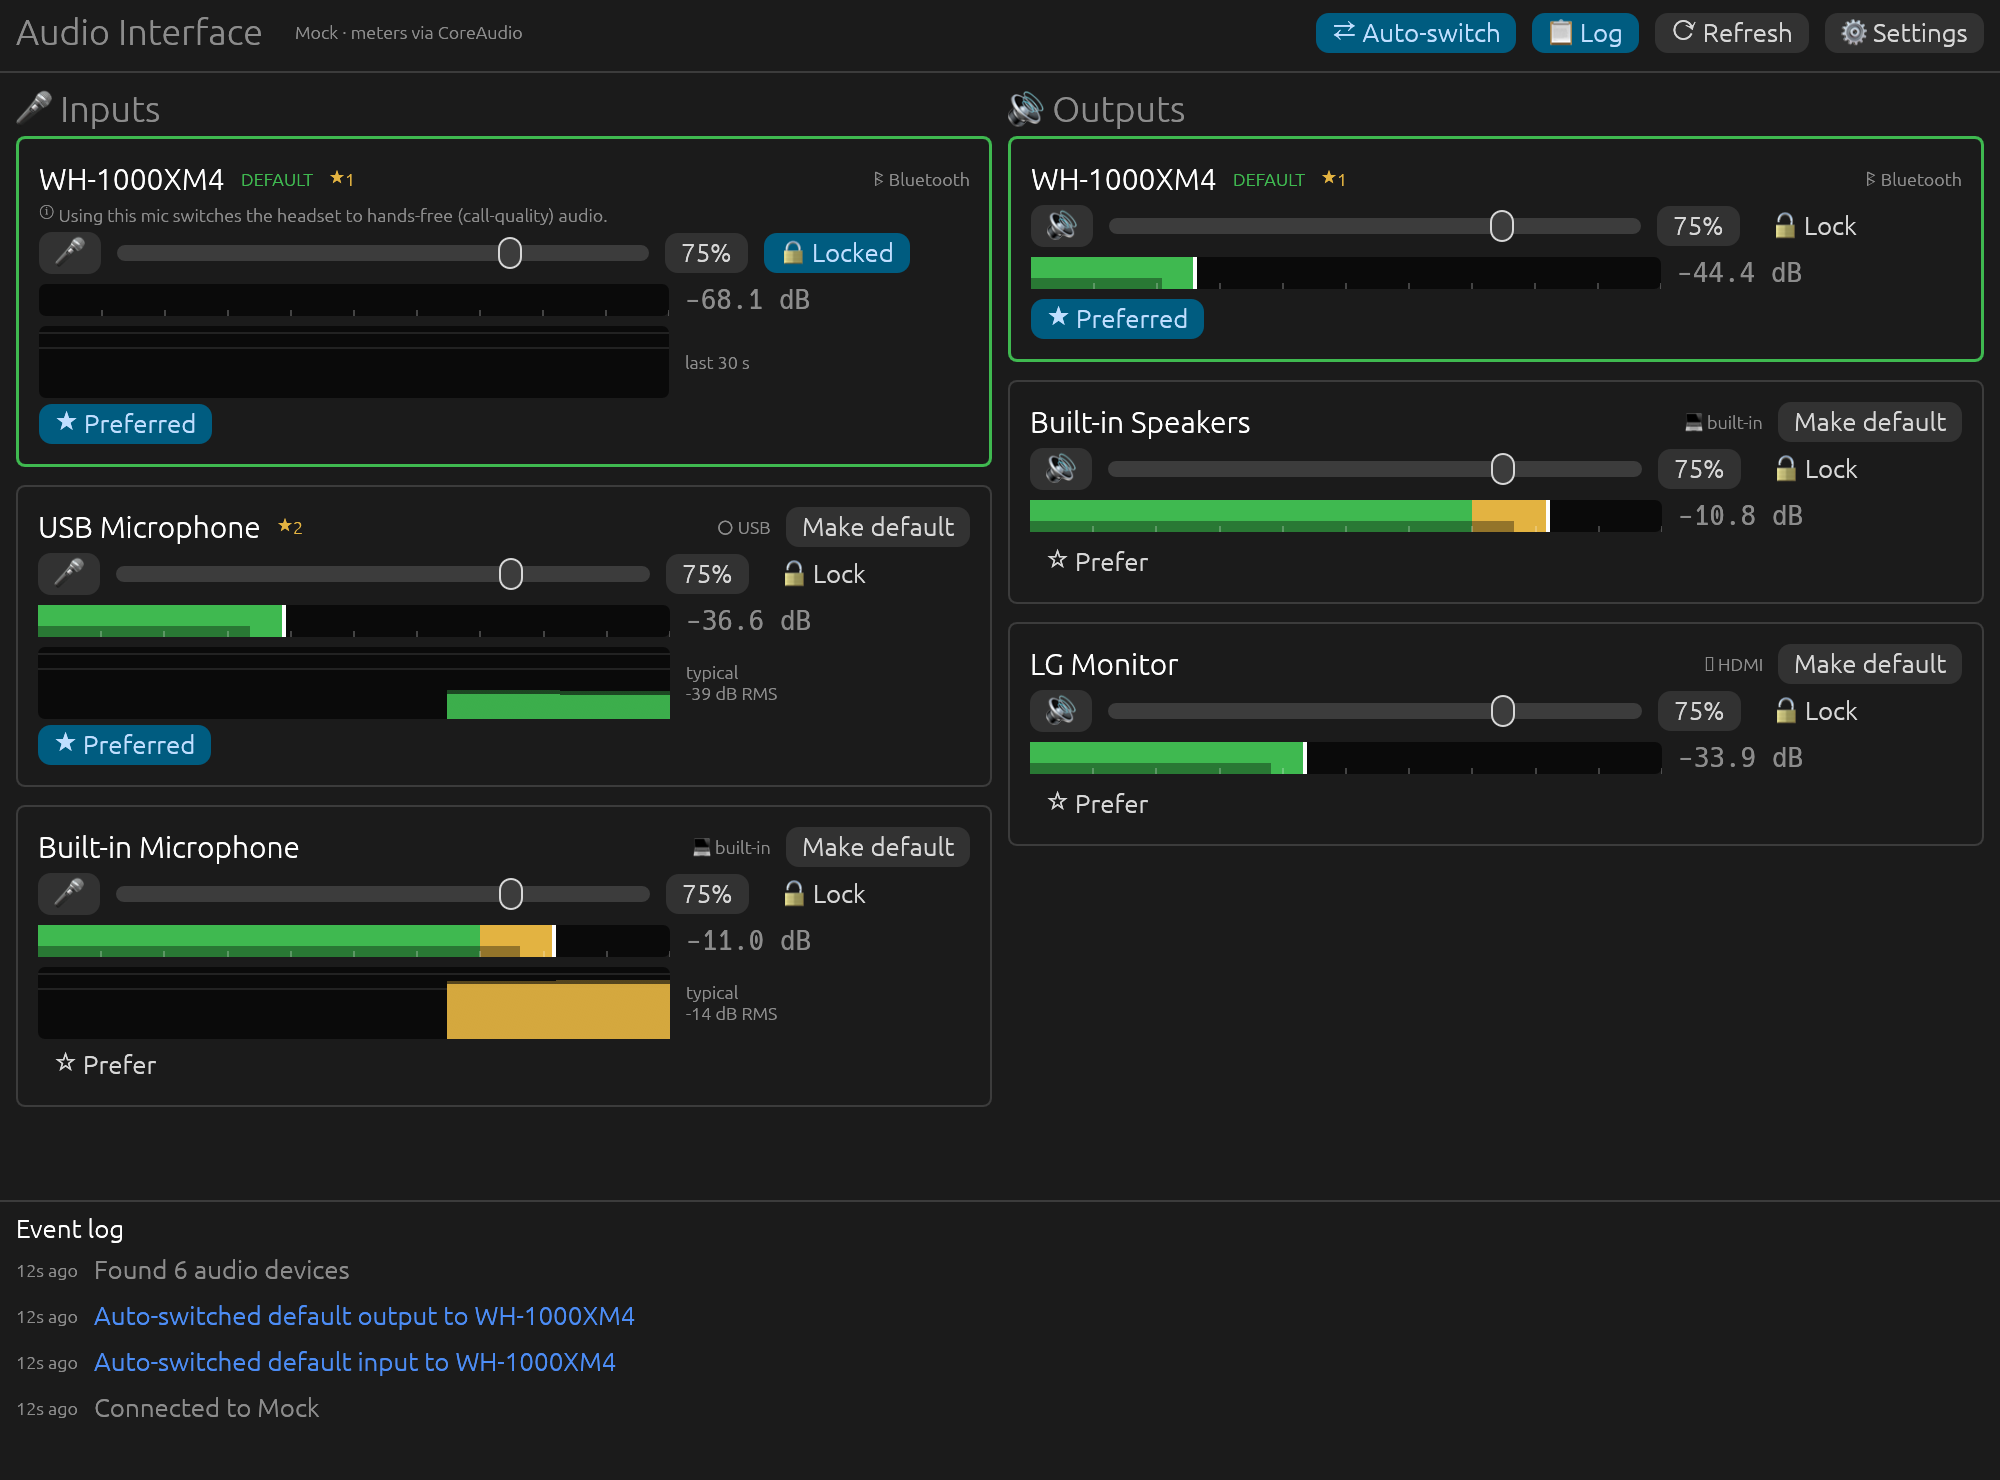
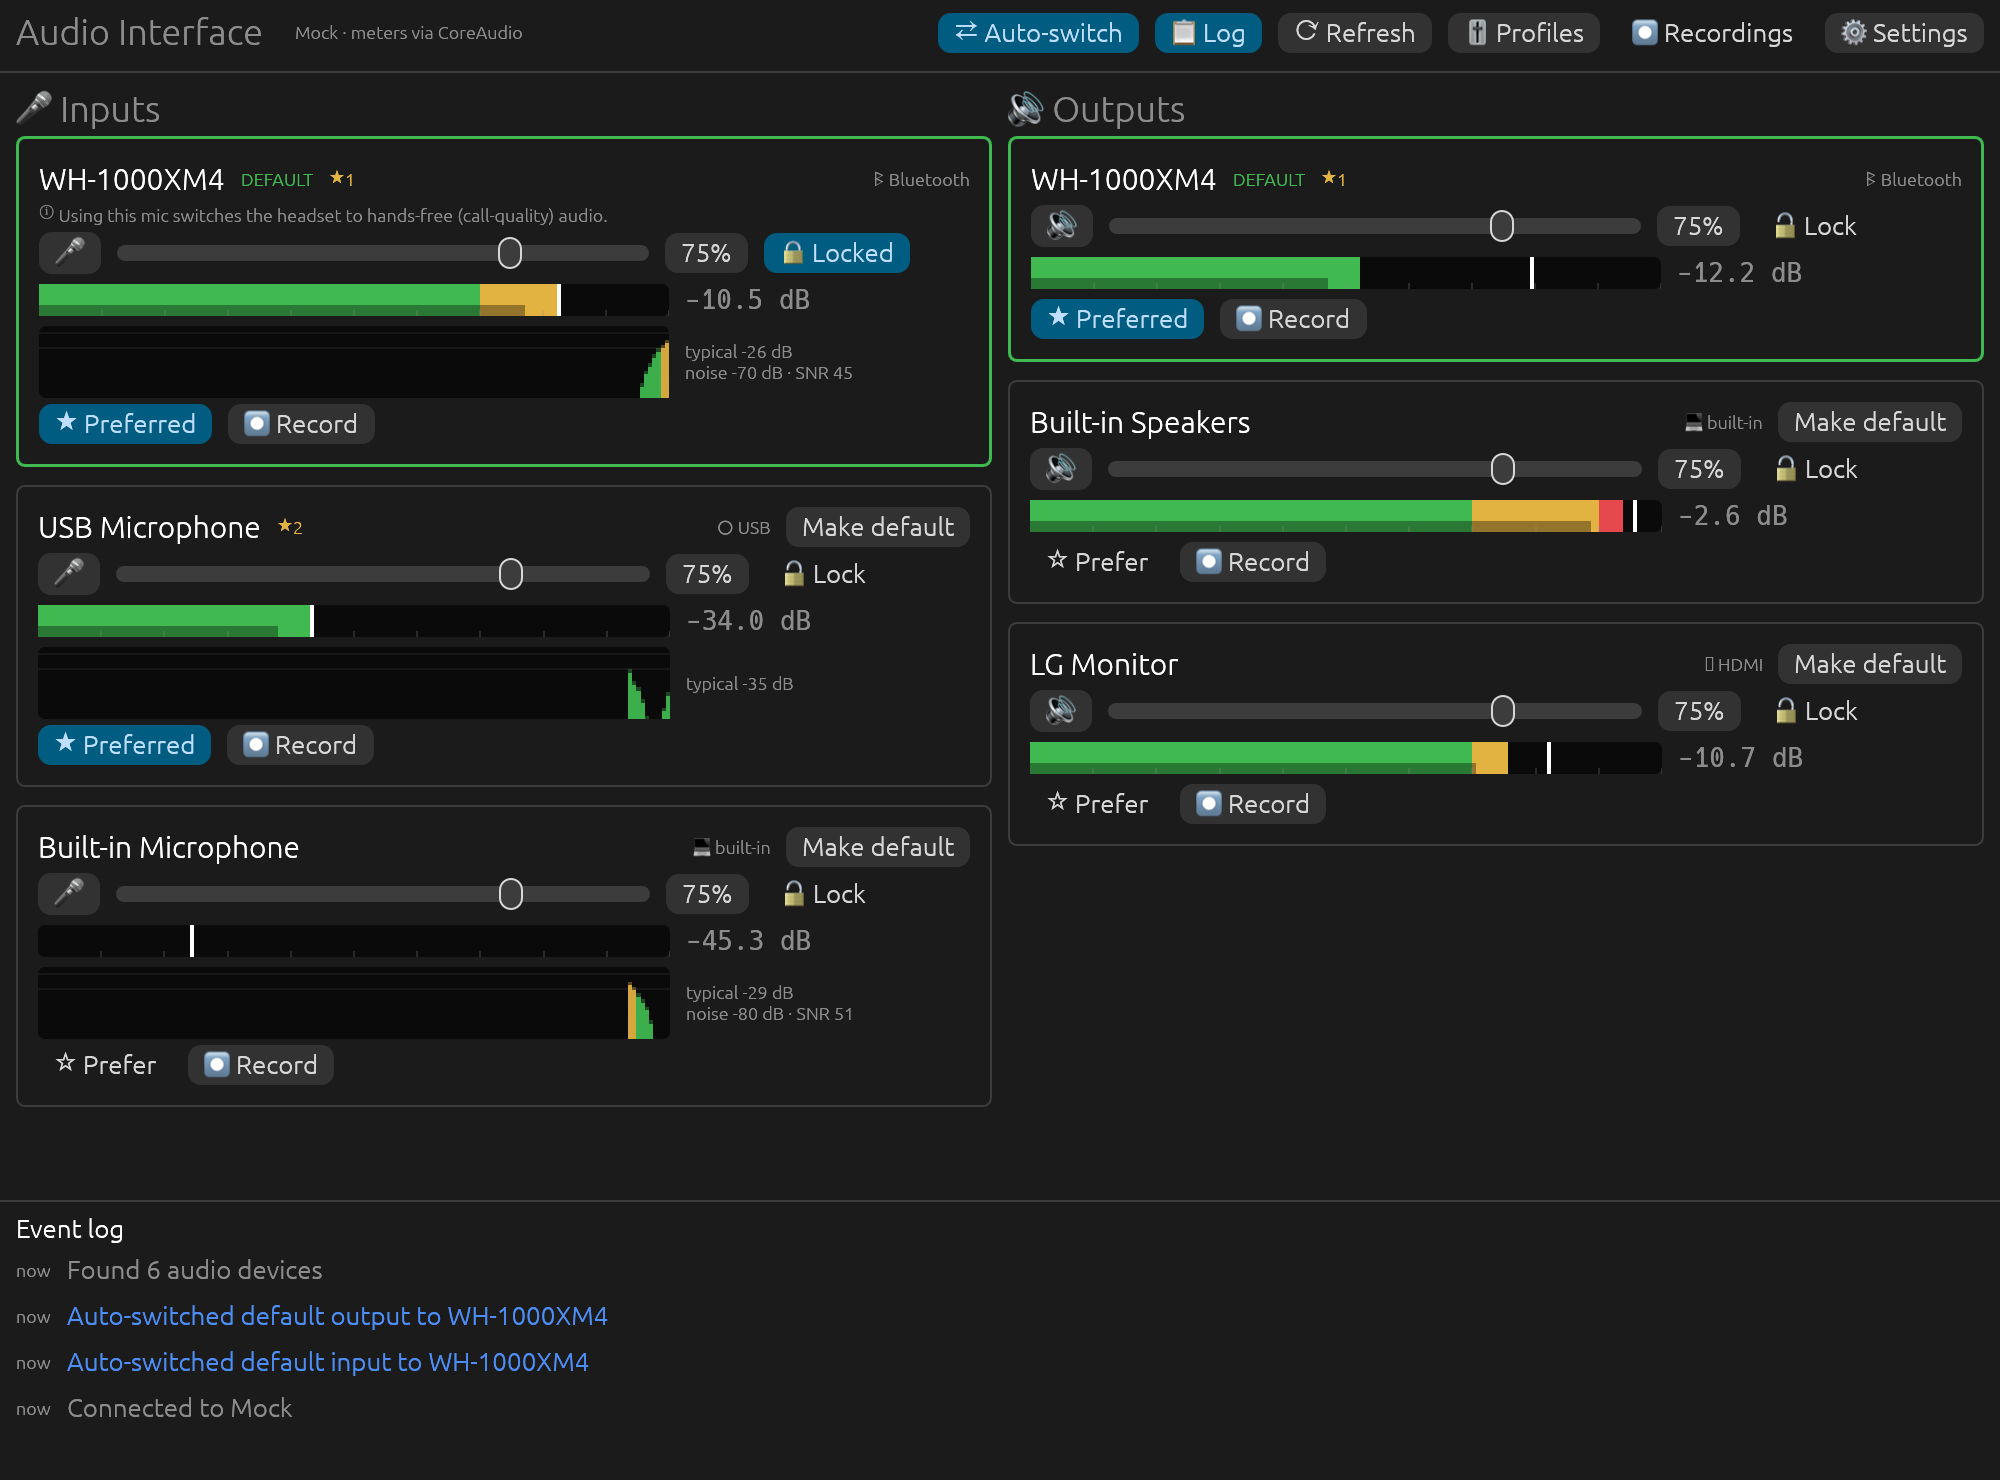
README: professional feature set, new screenshot
Claude-Session: https://claude.ai/code/session_01VarAEd1Yh4h8uMD2QcjDVC

diff --git a/README.md b/README.md
@@ -37,8 +37,26 @@ and the OS sound settings. It runs on **Windows, macOS and Linux**.
   mic"), or did the gain stay the same while the level fell (mic position, headset, Bluetooth)?
 - **"In use by" + auto-record calls:** shows which app is using each device (Teams, Zoom, …), and
   can start recording automatically when a call starts and stop when it ends.
+- **"Gain lowered by another app" alerts:** a notification (and a log entry, also inside any
+  recording) when something else drops your mic gain, naming the app using the mic.
+- **Profiles:** save your setup (defaults, volumes, mutes, gain locks) as "Calls", "Music", …
+  and switch in one click, from the tray, or with `audio-interface profile apply calls`.
+- **Global hotkeys:** Ctrl+Alt+M mutes/unmutes the mic anywhere; Ctrl+Alt+O / Ctrl+Alt+I switch
+  to the next output/input. Configurable.
+- **Tray / menu-bar icon** (Windows, macOS): switch devices, mute, profiles, recording.
+- **Per-app mixer** (Windows, Linux): volume and mute per application.
+- **Pro metering:** spectrum analyzer, EBU R128 loudness (momentary/short-term LUFS), noise
+  floor, SNR estimate, clip counter, 30 s level history.
+- **Test tools:** speaker test tones (left/right), mic test (record 5 s and play back), and
+  live "hear yourself" monitoring.
+- **Device details:** sample rate and channels, sample-rate switching (macOS), left/right
+  balance, Bluetooth/card profile switching (Linux, e.g. A2DP ↔ headset), and a separate
+  communications device for Teams/Zoom (Windows).
+- **Comfort:** rename or hide devices, start at login, desktop notifications, light/dark theme,
+  single instance, diagnostics for bug reports, settings export/import.
 - **Event log:** connects, disconnects, default changes, gain restores and errors.
-- **Scriptable CLI:** everything above is also available from the terminal.
+- **Scriptable CLI:** everything above is also available from the terminal
+  (`audio-interface --help`).
 
 ## Install / build
 
@@ -86,6 +104,10 @@ audio-interface record                   # log the default input until Ctrl+C, t
 audio-interface record "Headset" --audio --seconds 3600
 audio-interface record --auto --app teams   # headless: record every Teams call
 audio-interface analyze "Documents/Audio Interface Recordings/<file>.csv"
+audio-interface profile save Calls       # profiles: list | save | apply | delete
+audio-interface apps                     # per-app mixer: apps, app-volume, app-mute
+audio-interface test-tone --channel left # also: mic-test, balance, sample-rate, card-profile
+audio-interface diagnostics              # for bug reports
 ```
 
 Devices can be given by ID, exact name, or any unique part of the name (case-insensitive).
